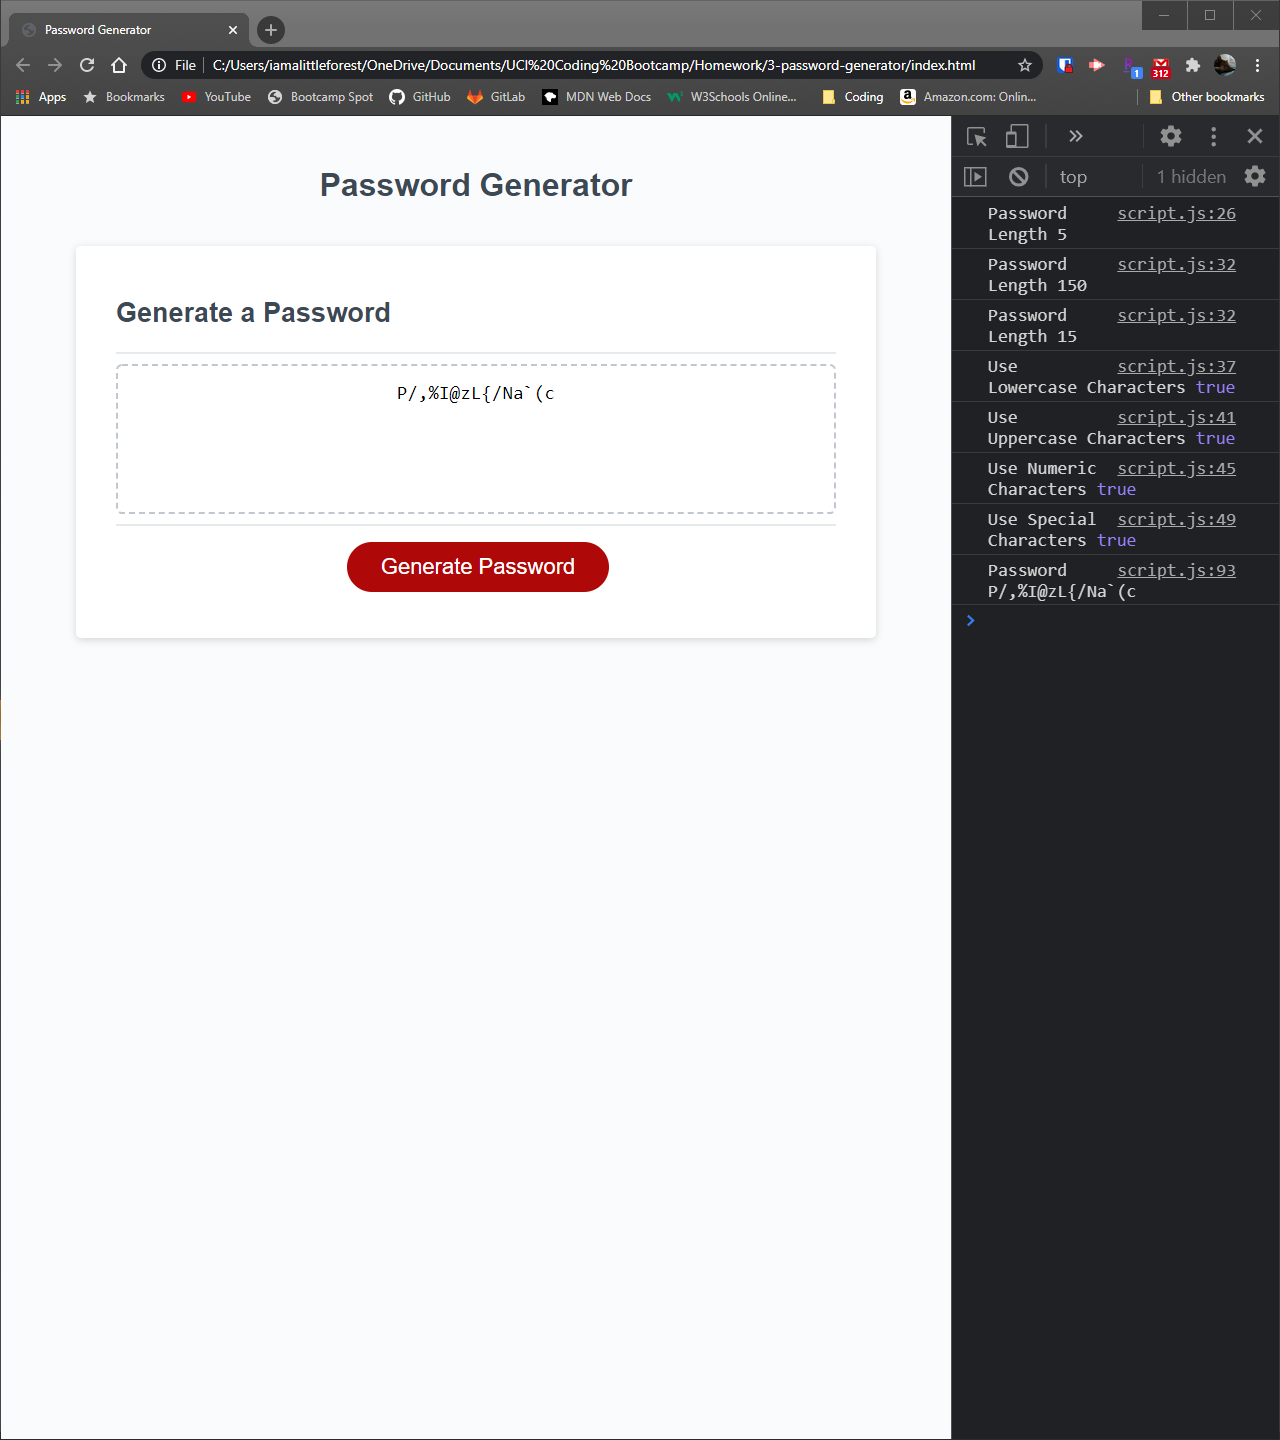
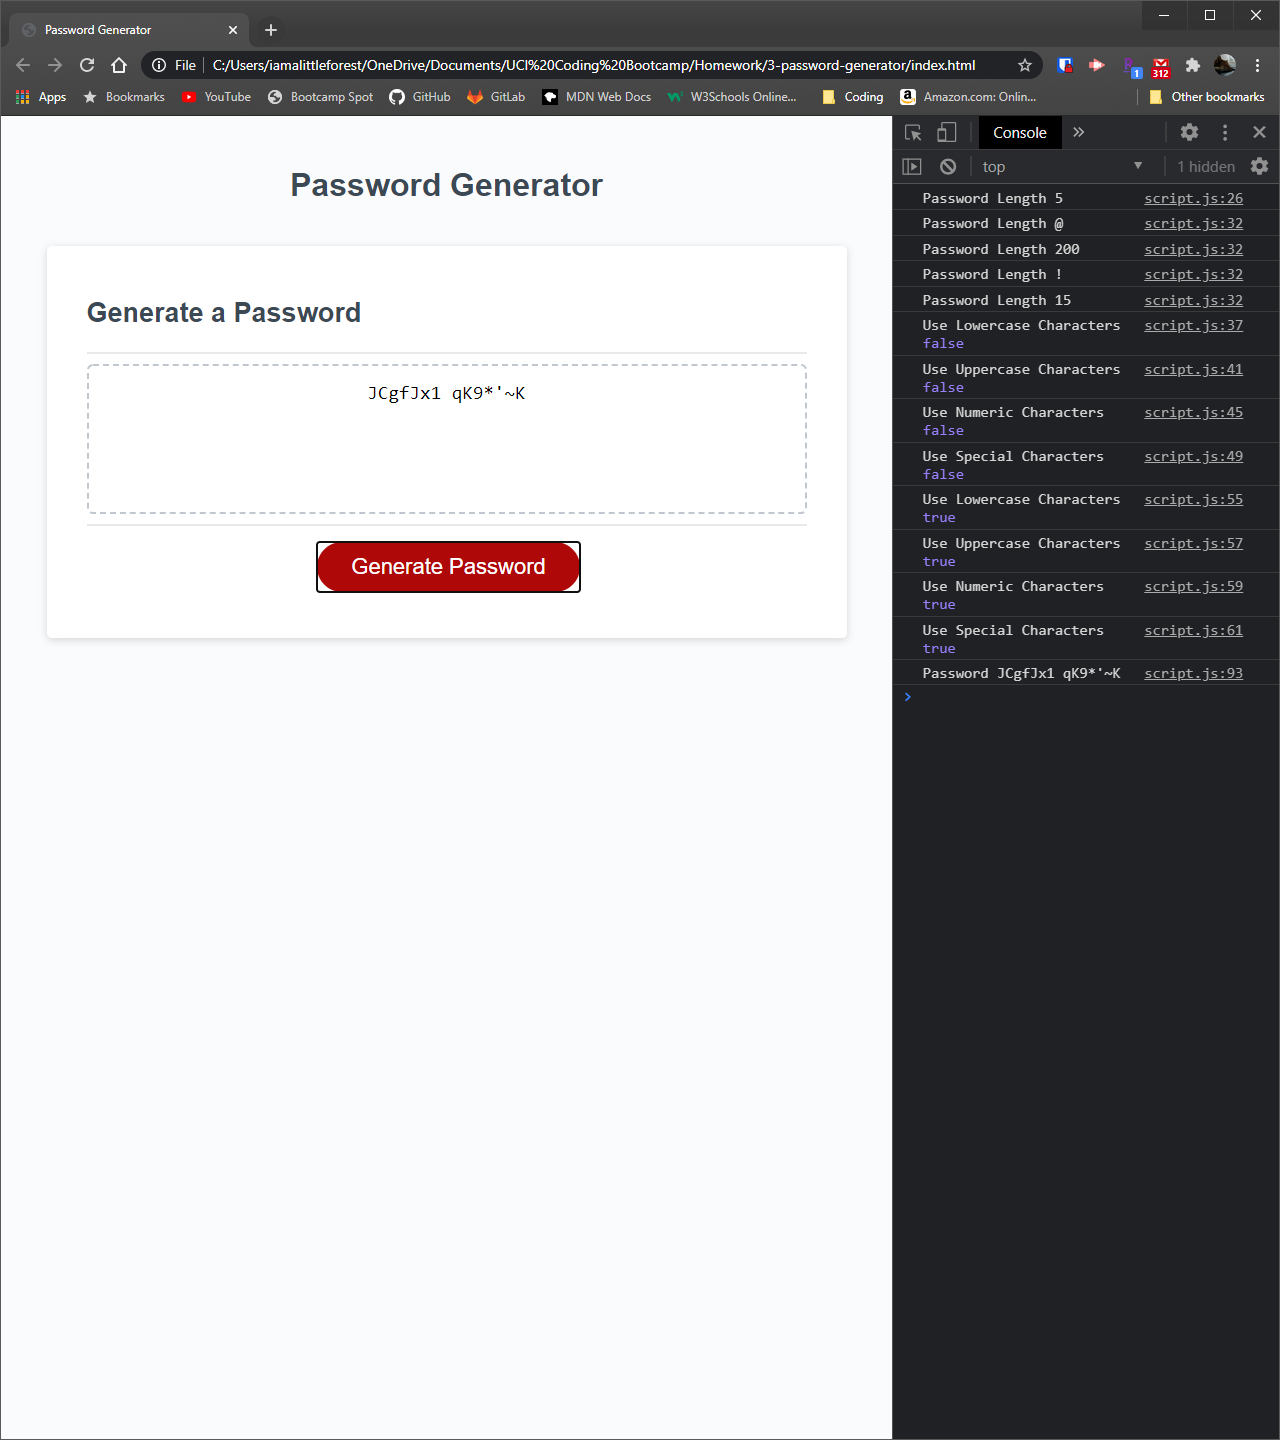
add additional validation to password length and updated screenshot png

diff --git a/script.js b/script.js
@@ -26,8 +26,8 @@ function generatePassword() {
   console.log("Password Length", passwordLength);
 
   // Validate password length against requirements
-  while (passwordLength < 8 || passwordLength > 128) {
-    alert("Password length must be between 8 and 128 characters.");
+  while (!Number.isInteger(Number.parseInt(passwordLength)) || passwordLength < 8 || passwordLength > 128) {
+    alert("Invalid Input: Password length must be between 8 and 128 characters.")
     passwordLength = window.prompt("Choose a password length between 8 and 128 characters.");
     console.log("Password Length", passwordLength);
   }
@@ -59,7 +59,7 @@ function generatePassword() {
     console.log("Use Numeric Characters", useNumber);
     useSpecialChar = window.confirm("Click OK to include special characters.");
     console.log("Use Special Characters", useSpecialChar);
-    }
+  }
 
   // Build the password
   var password = "";
